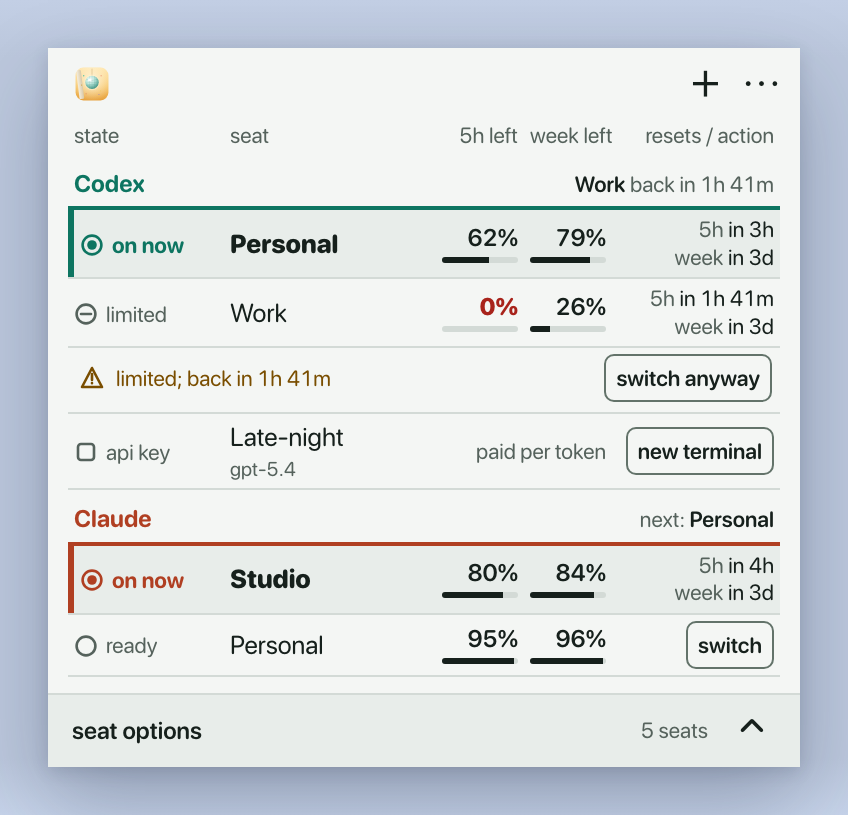
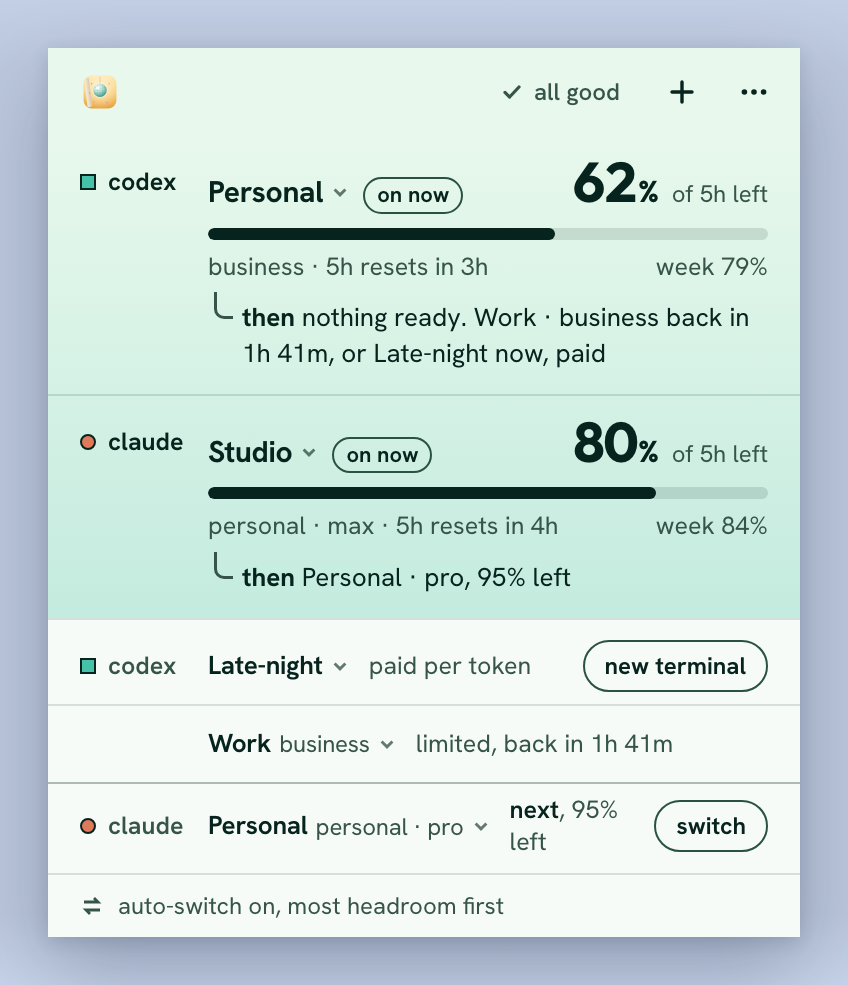
Release 1.6.0
README: in-place Claude switching, the work/personal question and its
setting, cross-tier opt-in, keep-warm; new screenshots of the v2 popover
and settings (screenshot script lifts the popover's new 600px cap).

diff --git a/scripts/screenshots.py b/scripts/screenshots.py
@@ -41,7 +41,8 @@ PORT = 8917
 SHOT_CSS = """
   html { zoom: 2; }                    /* headless dpr is 1; zoom gives true 2x pixels */
   html, body { margin: 0; padding: 0; }
-  html, body, #root, #root .app { height: auto !important; overflow: visible !important; }
+  html, body, #root, #root .app { height: auto !important; max-height: none !important;
+                                     overflow: visible !important; }
   #root .main-body, #root .set-body { flex: none !important; min-height: 0 !important;
                                       overflow: visible !important; }
   body { width: 424px; padding: 24px; box-sizing: border-box;

diff --git a/acctsw/__init__.py b/acctsw/__init__.py
@@ -4,7 +4,7 @@ The engine is intentionally stdlib-only so it can be vendored as a single direct
 without a virtualenv. The menubar app (``app/``) is a thin UI layer on top of this package.
 """
 
-__version__ = "1.5.1"     # marketing version — the SINGLE source of truth (setup.py reads this,
+__version__ = "1.6.0"     # marketing version — the SINGLE source of truth (setup.py reads this,
                           # pyproject mirrors it, and tests/test_smoke.py pins them together)
 APP_NAME = "ai guest list"
 

diff --git a/README.md b/README.md
@@ -44,7 +44,7 @@ The app talks directly to providers for sign-in, usage and model information; yo
 connect through the official tools.
 
 <p align="center">
-  <img src="docs/assets/screenshot.png" width="340" alt="The ai guest list popover: the verdict 'you can keep working', then one row per seat giving the tool, the account and how much 5-hour and weekly headroom is left — active seats first, a resting one at 0%, and an API-key seat priced per token." />
+  <img src="docs/assets/screenshot.png" width="340" alt="The ai guest list popover: a status chip, then one block per tool with the seat on now, how much of its tighter window is left, when it resets and where work goes next; below, one line per other seat with its kind and plan, a resting seat with its return time, and an API-key seat priced per token." />
   &nbsp;
   <img src="docs/assets/screenshot-settings.png" width="340" alt="The settings view in three sections: switching, paid keys set apart on gold, and appearance with the theme picker and the menu-bar icon legend." />
   <br><sub><i>The shipping popover and settings, with fictional accounts. Views are expanded to show all content.</i></sub>
@@ -58,6 +58,19 @@ connect through the official tools.
   resume the conversation on that seat. A resting seat can be chosen too; its limit applies at
   once, and the row says when it resets. Manual switching works even with auto-switch off. After updating,
   restart existing terminal launchers once so they load the new switching behavior.
+- **Claude keeps running while it switches.** A supervised Claude session moves to the next seat
+  *in place* — no restart, no resume — when its seat hits a limit or you pick another seat. A small
+  per-session local proxy (with a per-session certificate trusted only by that session) swaps the
+  seat behind the conversation; Claude Code keeps talking to `api.anthropic.com`, so admin policies
+  and features work as before. If anything about it doesn't work, it falls back to the restart
+  switch. Turn it off in settings with **switch seats without restarting claude**.
+- **Work and personal stay apart unless you say so.** Moving a session between a business seat
+  (Team/Enterprise) and a personal one (Pro/Max/Plus) asks first — **switch now** or **not now** —
+  every time, unless you turn on **switch automatically between business and personal seats**.
+  Switching in place across plan tiers (e.g. Max ↔ Team) is opt-in too.
+- **Parked seats stay ready.** Shortly before a parked Claude seat's sign-in token lapses, the app
+  lets Claude Code renew it (`claude mcp list` in that seat's home — no model call), so the seat can
+  take over in place at any time. Setting: **keep parked claude seats signed in**.
 - **Pick the smartest seat.** All seats resting? It chooses the one that unlocks soonest (or the one
   with the most headroom, your call).
 - **Non-destructive & reversible.** A factory-image backup makes uninstall a clean restore.
